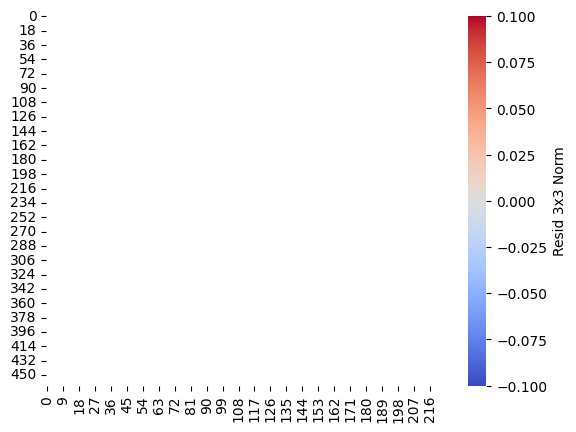
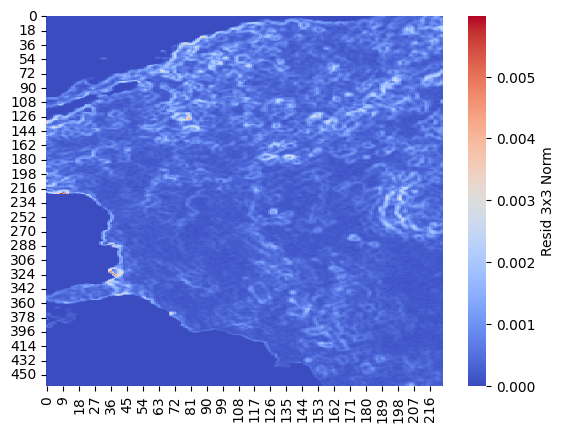
correcciòn en la descomposiciòn.

diff --git a/similitud/ts_decom_comparing3x3.py b/similitud/ts_decom_comparing3x3.py
@@ -74,13 +74,19 @@ for f in range(rows):
     simEucTrend = 0
     simEucSeasonal = 0
     simEucResid = 0
+    xTrend = np.array(ts_decomposed[f][c].trend)[2:-3]
+    xSeason = np.array(ts_decomposed[f][c].seasonal)
+    xResid = np.array(ts_decomposed[f][c].resid)[2:-3]
     for f1 in range(-1,2):
       for c1 in range(-1,2):
         if ((f+f1)>0 and (f+f1)<rows and (c+c1)>0 and (c+c1)<cols and (f1!=0 or c1!=0)):
           cant+=1;
-          simEucTrend += calc_euclidean(ts_decomposed[f][c].trend, ts_decomposed[f+f1][c+c1].trend)
-          simEucSeasonal += calc_euclidean(ts_decomposed[f][c].seasonal, ts_decomposed[f+f1][c+c1].seasonal)
-          simEucResid += calc_euclidean(ts_decomposed[f][c].resid, ts_decomposed[f+f1][c+c1].resid)
+          yTrend = np.array(ts_decomposed[f+f1][c+c1].trend)[2:-3]
+          ySeason = np.array(ts_decomposed[f+f1][c+c1].seasonal)
+          yResid = np.array(ts_decomposed[f+f1][c+c1].resid)[2:-3]
+          simEucTrend += calc_euclidean(xTrend, yTrend)
+          simEucSeasonal += calc_euclidean(xSeason, ySeason)
+          simEucResid += calc_euclidean(xResid, yResid)
     dcts_euc_trend[f][c] = float(simEucTrend)/cant
     dcts_euc_seasonal[f][c] = float(simEucSeasonal)/cant
     dcts_euc_resid[f][c] = float(simEucResid)/cant
